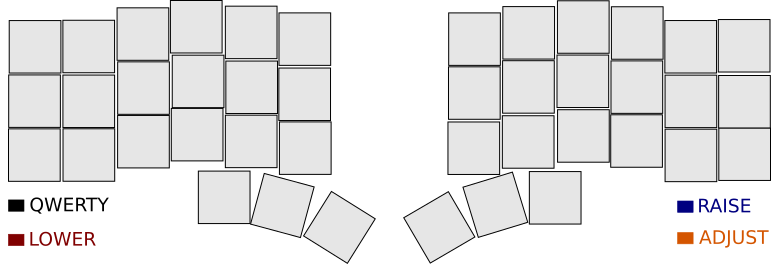
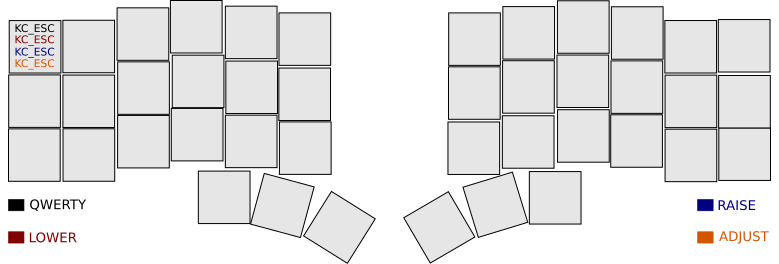
add key meaning and test img layout

diff --git a/README.md b/README.md
@@ -8,7 +8,7 @@ Source README located [here](https://github.com/qmk/qmk_firmware)
 <img src="https://github.com/razielar/corne_keyboard_layout/blob/main/img/corne_layout.png" alt="logo"></img>
 </div>
 
-Image created with [Inkscape](https://inkscape.org/es/)
+Keys-code located [here](https://config.qmk.fm/#/mechlovin/infinity875/LAYOUT_all)
 
 ## 2) Compile qmk
 
